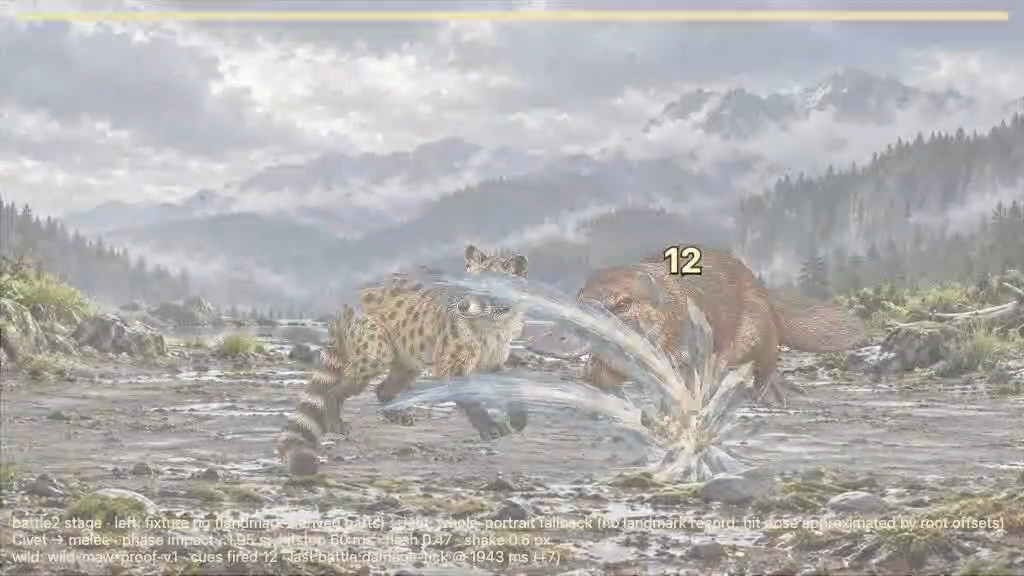
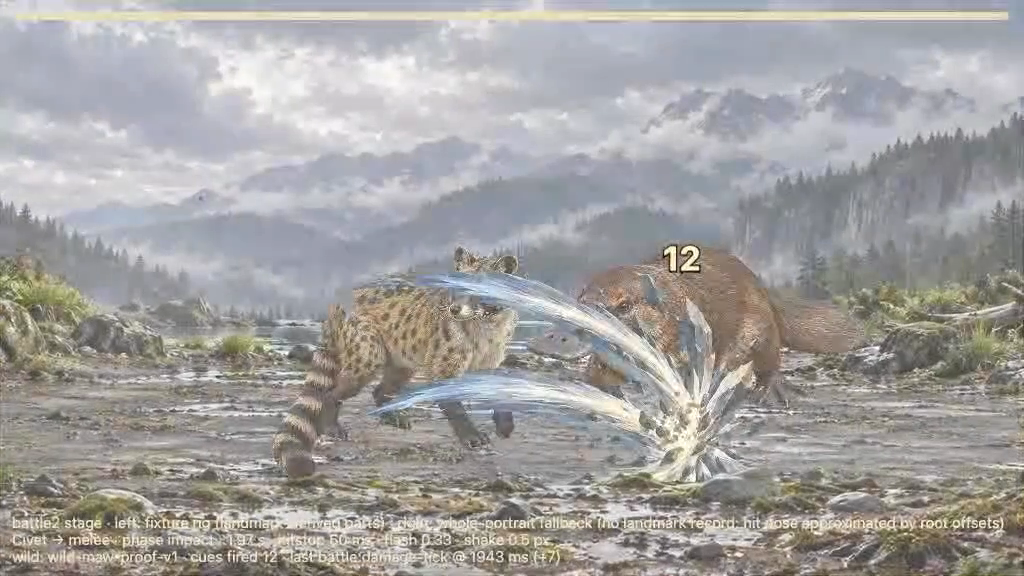
docs: adopt Pack 6 verbatim with delegated impact hold and audio decisions

diff --git a/audits/LONG_SESSION_20260913/LOG-CODEX-PRE-PACK6.md b/audits/LONG_SESSION_20260913/LOG-CODEX-PRE-PACK6.md
@@ -17,8 +17,24 @@ Packages per WORK_ORDER.md. One entry per package on acceptance: commit, evidenc
 
 The full `vitest run` on this tree has 24 failing tests in 12 files. All 24 fail identically on Codex's committed head openai/mac 1e65e006 (verified in a temporary detached checkout of that exact commit, then removed): app-chrome-main-wiring (3), compendium-budget (2), current-producer-authorities (suite), evidence-build-runtime (2, needs the evidence build with onnxruntime), exceptional-crafting-evidence-contract (2), guide-release (1), painted-earth-mount-ownership (12), pwa-offline (1), slicesmoke-sixth-red-contract (1), and three `node:test` .mjs files under tools/ that vitest collects with 0 tests. None is caused by the merge or by packages A1 to A6. They belong to Codex's lane (C5 pruning and exact-head admission) and are recorded here so nobody mistakes them for new reds.
 | A7 pose editor | accepted (mechanical); Nick's tool | 20f50f70 | audits/LONG_SESSION_20260913/a7-pose-editor/capture-01/; 11 tests |
-| B1–B4 batch 2 | built and green (typecheck 0; 26 suites / 220 tests; root validate PASS); live capture REVIEW (602 frames, cues within one frame of their beats; found and fixed the frozen particle count and the pale-on-pale disc); Nick's eye open on the four B3 sheets and the capture; audio port and impact hold decided on Nick's delegation (LOG-B.md) | see git log | audits/LONG_SESSION_20260913/LOG-B.md; b3-family-sheets/; b-batch-capture/proof-run-01/ (A1 procedural evidence refreshed) |
+| B1–B4 batch 2 | built and green (typecheck 0; 26 suites / 220 tests; root validate PASS); live capture REVIEW (602 frames, cues within one frame of their beats; found and fixed the frozen particle count and the pale-on-pale disc); Nick's eye open on the four B3 sheets and the capture; main.ts audio port is Nick's call | see git log | audits/LONG_SESSION_20260913/LOG-B.md; b3-family-sheets/; b-batch-capture/proof-run-01/ (A1 procedural evidence refreshed) |
 | A11 family motion templates | accepted (mechanical); synthetic landmarks, not anatomy evidence; myriapod, cephalopod, flyer-membrane, primate built in B3 (LOG-B.md) | see git log | audits/LONG_SESSION_20260913/a11-family-sheets/ (nine sheets, byte-identical on re-run); 54 motion tests |
 
 - 2026-09-13 Wild second intake reviewed: travel ACCEPT, impact TARGETED INTAKE FIX (two clusters), registration ACCEPT, no further erosion; response in audits/WILD_V43_PROOF_20260913/second-pass/.
 - 2026-09-13 Wild targeted impact pass reviewed: both clusters ACCEPT (tuft rose streak and leaf rim are master paint; my second-pass read corrected); C1 mechanical intake complete pending Nick's eye; response in audits/WILD_V43_PROOF_20260913/targeted-pass/.
+
+## Codex Pack5 continuation
+
+Packet committed verbatim0341be68; prior local LOG retained verbatim before overwrite. C1
+mechanically complete; Nick final image acceptance. No further Wild correction. C2 independent
+fox22-part atlas has0changedoffline rest/packed channels. Added optional winning-painter RGBA
+part ownership capture and hash-bound intake, with negative controls. Native fox rest and fresh
+procedural record/mask emission are next on committed source. Motion root-broadcast producer
+mismatch remains pending owner fix; protected Claude paths untouched. No C2 completion claim,
+C3 source, kit/main.ts edit or GitHub write.
+
+C2 continuation signing attempt failed:1Password agent returned an error. Work remains staged,
+not committed; native fox/painter checks have not run. HEAD0341be68 verified signed,83ahead
+upstream/194aheadcacheddevelop. Rootvalidate, v2typecheck,9focused Vitest and3node tests pass.
+Nick was asked to unlock/approve signing. Producer review prompt remains available; neither
+GitHub nor another agent's protected source was touched.

diff --git a/audits/LONG_SESSION_20260913/LOG-B.md b/audits/LONG_SESSION_20260913/LOG-B.md
@@ -67,3 +67,12 @@ Two defects the capture exposed, both fixed here with negative-controlled tests:
 What the frames show now: the Wild sweep and impact draw registered from the Civet to the Platypus and the tide launch blob, trail and impact splash are visible at the stands. Two things for Nick's eye, not changed here: (a) the impact phase ends with the flash (kit §5: two white frames + 120 ms fade; the impact track is `hitstop + flashFade` long), so the painted impact is mostly seen through the white; a longer impact hold after the flash would read better and is a kit timing wording; (b) this worktree still carries the v4.2 Wild masters (blue-tinted travel), because the v4.3 sequence lives in Codex's lane; the capture is the mechanism, not the art.
 
 A1 evidence refresh: `a1-pose-sheets/procedural.{body-card,timelines,pose-sheet}` were stale from before the record-first material flip (they still said `genome skin "translucent" overrides record surface "fur"`). Regenerated from the same audit fixtures (`audits/CIVET_2D_PROOF_20260912/captures/procedural-resolved-anatomy.json` + `procedural-genome.json`): the card now reads `furred` from the record with the observer-disagreement note, as CONTRACTS §5 says; civet and fox sheets were already current.
+
+## Nick's two delegated decisions (2026-09-13, "do what you think is best")
+
+1. **Audio port.** `TameGreetingAudioOwner.decorativeVoicePort()` (new): returns `{ playVoice }`. It admits only `meaning.kind === 'decorative'` requests, and only while the owner is live, visible and answerable with the master policy on; every accepted request still goes through the runtime's own admission (activation, mute, cooldown, concurrency, budgets). Nothing arms, claims or counterparts, so the study can never make a sound the accessible owner would not. `main.ts` passes it in the one gated battle2 line (`audio: tameGreetingAudioOwner?.decorativeVoicePort() ?? null`). Test in `tame-greeting-audio.test.ts`: cold runtime refuses on its own, a combat gesture activates and a decorative cue starts and shows in the runtime's voice ids, meaningful and malformed requests refuse `invalid-request`, hidden / not answerable / disposed refuse `not-running`, a sound-off policy refuses `muted`.
+2. **Impact hold.** `MOTION_KIT_TIMING.impactHold = 240`: the impact image now holds 240 ms after the hitstop and then fades over the flash's 120, so the painted impact reads after the white instead of under it. Kit §5 gained the row; the choreography's idle start already follows the effect end, so nothing else moved. Sequencer tests pin the hold and the fade.
+
+A third capture finding came with the refresh: the effect player armed its ms 0 on its own first tick, so a jumped or skipped frame (the runner's `reset(); frame(ms)` beat frames) rendered the effect at its start instead of at the right time. `EffectSequencePlayerOptions.startAtMs` (the stage passes the action start on the turn clock) fixes it; tested with a late first tick landing in the impact phase versus the old first-tick arming.
+
+Capture refreshed after all three (`b-batch-capture/proof-run-01/`, same runner): the impact +170 frames now show the painted Wild impact and the tide splash after the flash has cleared, in both the continuous video and the runner's jumped beat frames.

diff --git a/MOTION_KIT.md b/MOTION_KIT.md
@@ -4,6 +4,8 @@ Motion direction and animation contract, PROPOSED version 1, 2026-09-12. Compani
 
 Each section is plain text inside a fenced block. Sections 1 and 2 are frozen once approved; section 3 is filled by the compiler from the resolved-anatomy record; sections 4 to 7 are the closed action, timing, secondary-motion and staging vocabularies.
 
+Matches code as of 2026-09-13 (see Implementation at the end; sections 1, 2, 5 and 6 are Nick's wording and are not touched by that note).
+
 ## 0. How to use
 
 ```text
@@ -159,6 +161,8 @@ Never below 60 percent of base on tiny bodies; never above 200 percent.
   hitstop          70 on the target and attacker, scaled by the ATTACKER's
                    mass class, capped 140
   flash            two frames white on the target, then 120 fade
+  impact hold      the impact image holds 240 after the hitstop, then fades
+                   over the flash's 120, so it reads after the white, not under it
   shake            amplitude 6 px at mass 1.00 for 180, decaying
   damage number    pop 90 (back-out), rise 420, fade last 160
   timing bar       fills in game-owned turn time; the bar's motion uses
@@ -271,3 +275,7 @@ LOOT and INVENTORY: pickup pop 90 back-out; reveal flourish scaled by rarity
   e. Then freeze sections 1, 2, 5, 6; templates grow only by adding a
      template with its own proof.
 ```
+
+## Implementation
+
+Matches code as of 2026-09-13. The kit is implemented in `port/v2/apps/game/src/motion/` (body-card compiler `compileBodyCard`, template library `templates.ts`, action library `actions.ts`, timing table `timing.ts`, material secondary motion `secondary.ts`, timeline builder `timeline.ts`, GSAP player `gsap-adapter.ts`, budget guard `budget.ts`); staging by surface in `battle2/` (arena, choreography, stage, fixture and portrait rigs) and `worldlife/` (plate life); effects in `effects/`. Materials follow CONTRACTS §5: the resolved-anatomy record wins, the genome's FA_SKIN fills in only when the record omits a surface, and either case is written to `card.notes`. Live wiring is flag-gated (`?battle2=1`, `?worldlife=1`) through `battle2-wiring.ts` and `worldlife-wiring.ts`; the default game path is unchanged. Every §4 template has a library (`family-templates.ts`, `family-actions.ts`; the four added in batch 2 are proven on synthetic fixtures only). Every ability theme stages an effect on the strike beat: Wild its painted sequence, the other ten a labelled procedural emitter in the theme's §4K material colour (`effects/theme-library.ts`) until their sequences are painted. Sound cues ride the same beats (`battle2/cue-plan.ts`). The §5 impact hold (240 after the hitstop) was added 2026-09-13 on Nick's delegation after the batch-2 capture showed the painted impact disappearing with the flash. Not yet implemented: the C2 parts rig (the battle stage uses the labelled fixture rig), turns synchronised to the Chronicle cue cadence, arena selection beyond the one accepted temperate arena, resident idle life and foliage sway on landfalls, the `tame`/`feed`/victory-split rows (A1 defaults in `timing.ts`, a wording decision), and a measured §8 update-time budget (the guard is structural).

diff --git a/SOUND_KIT.md b/SOUND_KIT.md
@@ -4,6 +4,8 @@ Sound direction and audio contract, PROPOSED version 1, 2026-09-12. Companion to
 
 Each section is plain text inside a fenced block. Sections 1 and 2 are frozen once approved; section 3 is filled by the compiler; section 4 is the closed cue vocabulary.
 
+Matches code as of 2026-09-13 (see Implementation at the end; sections 1, 2, 5 and 6 are Nick's wording and are not touched by that note).
+
 ## 0. How to use
 
 ```text
@@ -190,3 +192,7 @@ bed under 400 KB, a music piece under 1.2 MB.
   e. Then freeze sections 1, 2, 5 and 6; sources grow only by adding a
      named set with its own listening review.
 ```
+
+## Implementation
+
+Matches code as of 2026-09-13. The kit is implemented in `port/v2/apps/game/src/soundkit/` (voice-card compiler `voice-card.ts`, deterministic derivation `derive.ts` over the pure DSP in `dsp.ts`, the closed cue registry `cues.ts`, mix and ducking integration `mix.ts`, WAV output `wav.ts`, the browser hand-off `browser-adapter.ts`, and the labelled non-shippable `placeholder-archetype.ts`). The voice card reads `record.materials.surface` first and the genome's FA_SKIN only when the record omits it (CONTRACTS §5). Battle and ability cues render through a labelled placeholder synth (`battle-synth.ts`, all 33 ability and 16 battle ids, never shippable) and ride the turn beats through `battle2/cue-plan.ts` and `turn-audio.ts` (one buffer-source request per cue through the mix policy into the runtime's own admission; `main.ts` hands the study the accessible owner's `decorativeVoicePort()`, which passes only decorative requests and only while the owner is live, visible, answerable and the policy is on). Not yet implemented: the recorded source sets of CONTRACTS §1 (C3; every voice so far is derived from the placeholder archetype and is not shippable), derivation for ambience, space, economy, ui and music cue ids (registered and mixed, no recipes yet), a measured LUFS gate (only peak is enforced), and true formant/WSOLA processing (the current filters are documented approximations in `dsp.ts`).
